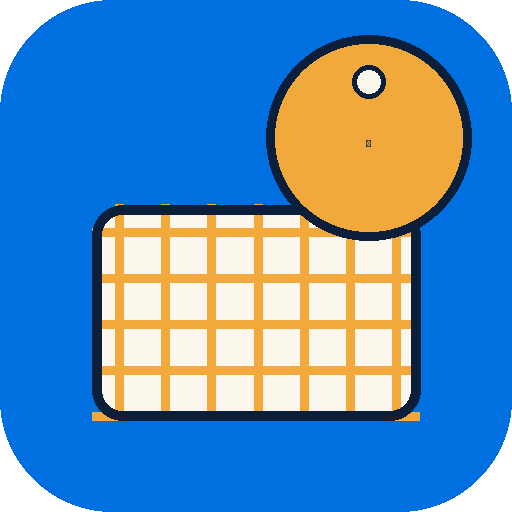
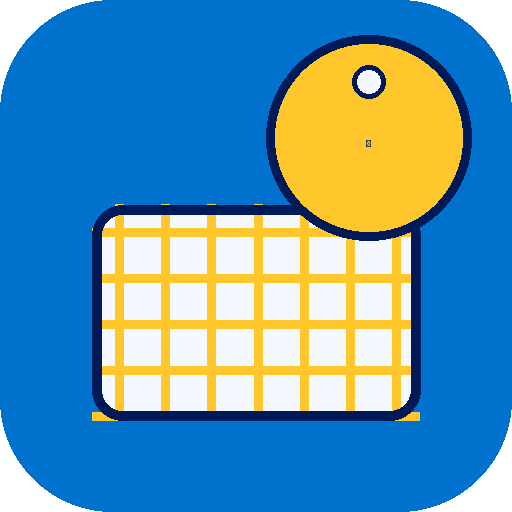
Add files via upload

Changed region(s): [[0.1562, 0.0625, 0.9375, 0.8438]]

diff --git a/style.css b/style.css
@@ -1,18 +1,19 @@
 :root{
-  --navy:#0B1F3A;
-  --navy-soft:#233350;
-  --blue:#0070E0;
-  --blue-deep:#0056B3;
-  --blue-pale:#E7F1FE;
-  --amber:#F2A93C;
-  --amber-deep:#D98A1F;
-  --cream:#FBF6EC;
-  --cream-dim:#F1EADA;
-  --clay:#E85D3D;
-  --green:#1FAA59;
-  --green-pale:#E5F6EC;
-  --line:#E7E0CF;
-  --shadow: 0 10px 24px rgba(11,31,58,0.10);
+  /* GCash-inspired palette: deep + bright brand blue, white/pale-blue surfaces, gold accent */
+  --navy:#001A57;
+  --navy-soft:#0E3B93;
+  --blue:#0072CE;
+  --blue-deep:#001E7A;
+  --blue-pale:#EAF3FF;
+  --amber:#FFC72C;
+  --amber-deep:#E29B00;
+  --cream:#F5F8FF;
+  --cream-dim:#E8F0FE;
+  --clay:#FF5A45;
+  --green:#00A651;
+  --green-pale:#E1F6EA;
+  --line:#DCE7F9;
+  --shadow: 0 10px 24px rgba(0,26,87,0.10);
   --radius-lg:22px;
   --radius-md:16px;
   --radius-sm:11px;
@@ -131,22 +132,60 @@ body{
 .pickforme.busy .pfm-arrow{ animation:spin 0.9s linear infinite; }
 @keyframes spin{ to{ transform:rotate(360deg); } }
 
-/* ---------- GAB AI banner ---------- */
-.gabai-banner{
-  margin-top:14px; display:flex; gap:10px; align-items:flex-start;
-  background:#fff; border:1.5px dashed var(--blue);
-  border-radius:var(--radius-md); padding:12px 14px;
-  animation:pop .35s ease;
-}
 @keyframes pop{ from{ opacity:0; transform:translateY(-6px); } to{ opacity:1; transform:translateY(0); } }
 .gabai-avatar{
   flex-shrink:0; width:30px; height:30px; border-radius:9px;
-  background:linear-gradient(135deg, var(--amber), var(--clay));
+  background:linear-gradient(135deg, var(--blue), var(--blue-deep));
   color:#fff; font-family:'Baloo 2',sans-serif; font-weight:800;
   display:flex; align-items:center; justify-content:center; font-size:14px;
 }
-.gabai-label{ margin:0; font-size:10px; font-weight:800; letter-spacing:0.06em; color:var(--blue); text-transform:uppercase; }
-.gabai-text{ margin:3px 0 0; font-size:13px; line-height:1.4; color:var(--navy-soft); }
+
+/* ---------- GAB AI floating guide ---------- */
+.gabai-float{
+  position:absolute; right:14px; bottom:94px; z-index:30;
+  display:flex; flex-direction:column; align-items:flex-end; gap:10px;
+}
+.gabai-float-avatar{
+  position:relative; width:54px; height:54px; border-radius:50%;
+  background:linear-gradient(135deg, var(--blue), var(--blue-deep));
+  border:none; box-shadow:0 10px 22px rgba(0,30,122,0.38);
+  display:flex; align-items:center; justify-content:center; cursor:pointer;
+}
+.gabai-letter{ font-family:'Baloo 2',sans-serif; font-weight:800; font-size:20px; color:#fff; }
+.gabai-pulse{
+  position:absolute; inset:-6px; border-radius:50%;
+  border:2px solid var(--blue); opacity:0.55;
+  animation:gabai-pulse 2.2s ease-out infinite;
+}
+@keyframes gabai-pulse{
+  0%{ transform:scale(0.85); opacity:0.55; }
+  70%{ transform:scale(1.28); opacity:0; }
+  100%{ opacity:0; }
+}
+.gabai-float-bubble{
+  position:relative; width:224px; background:#fff; border-radius:16px;
+  box-shadow:0 14px 30px rgba(0,26,87,0.22); border:1px solid var(--line);
+  padding:12px 14px 13px; animation:pop .22s ease;
+}
+.gabai-float-bubble::after{
+  content:""; position:absolute; right:20px; bottom:-8px;
+  width:16px; height:16px; background:#fff;
+  border-right:1px solid var(--line); border-bottom:1px solid var(--line);
+  transform:rotate(45deg); border-radius:0 0 4px 0;
+}
+.gabai-float-close{
+  position:absolute; top:8px; right:9px; border:none; background:none;
+  color:#9AA6BB; font-size:11px; cursor:pointer; padding:2px;
+}
+.gabai-float-label{ margin:0 18px 0 0; font-size:10px; font-weight:800; letter-spacing:.06em; color:var(--blue); text-transform:uppercase; }
+.gabai-float-text{ margin:5px 0 0; font-size:12.5px; line-height:1.42; color:var(--navy-soft); }
+.gabai-float-actions{ display:flex; gap:6px; margin-top:10px; flex-wrap:wrap; }
+.gabai-float-actions button{
+  border:none; border-radius:9px; padding:7px 10px; font-size:11px; font-weight:700; cursor:pointer; font-family:inherit;
+}
+.gabai-float-actions .gfa-primary{ background:var(--navy); color:#fff; }
+.gabai-float-actions .gfa-ghost{ background:var(--cream-dim); color:var(--navy-soft); }
+.gabai-float.hidden{ display:none; }
 
 /* ---------- section head / grid ---------- */
 .sectionhead{ display:flex; align-items:baseline; justify-content:space-between; margin:20px 2px 10px; }

diff --git a/app.js b/app.js
@@ -46,18 +46,77 @@
     views.forEach(v => v.classList.toggle("active", v.dataset.view === name));
     navitems.forEach(n => n.classList.toggle("active", n.dataset.target === name));
     bottomnav.style.display = (name === "checkout") ? "none" : "flex";
+    gabaiFloat.el.classList.toggle("hidden", name === "checkout");
+    gabaiFloat.setForView(name);
   }
 
   navitems.forEach(btn => {
     btn.addEventListener("click", () => showView(btn.dataset.target));
   });
 
+  /* ---------------- GAB AI FLOATING GUIDE ---------------- */
+
+  const gabaiFloat = (() => {
+    const el = document.getElementById("gabai-float");
+    const avatar = document.getElementById("gabai-float-avatar");
+    const bubbleEl = document.getElementById("gabai-float-bubble");
+    const textEl = document.getElementById("gabai-float-text");
+    const actionsEl = document.getElementById("gabai-float-actions");
+    const closeBtn = document.getElementById("gabai-float-close");
+
+    const VIEW_TIPS = {
+      bagsakan: { text: "Tap <strong>Pick for me</strong> and I'll curate Bagsakan for your shop! 🌸", actions: [] },
+      chat: { text: "I suggested a message above — tap <strong>Use this message</strong> to send it instantly.", actions: [] },
+      wallet: { text: "Need working capital for your next bulk order? GLoan can help fund it.", actions: [] },
+    };
+
+    let currentView = "bagsakan";
+    let shownOnce = { bagsakan: false };
+
+    function render(text, actions = []) {
+      textEl.innerHTML = text;
+      actionsEl.innerHTML = "";
+      actions.forEach(a => {
+        const btn = document.createElement("button");
+        btn.className = a.primary ? "gfa-primary" : "gfa-ghost";
+        btn.textContent = a.label;
+        btn.addEventListener("click", a.onClick);
+        actionsEl.appendChild(btn);
+      });
+    }
+
+    function open(text, actions) {
+      if (text) render(text, actions);
+      bubbleEl.hidden = false;
+    }
+    function close() { bubbleEl.hidden = true; }
+    function toggle() {
+      if (bubbleEl.hidden) {
+        const tip = VIEW_TIPS[currentView];
+        open(tip ? tip.text : "Hi! I'm GAB AI, your Bagsakan buddy. 👋");
+      } else {
+        close();
+      }
+    }
+    function setForView(name) {
+      currentView = name;
+      if (name === "bagsakan" && !shownOnce.bagsakan) {
+        shownOnce.bagsakan = true;
+        setTimeout(() => open(VIEW_TIPS.bagsakan.text), 700);
+      }
+    }
+
+    avatar.addEventListener("click", toggle);
+    closeBtn.addEventListener("click", close);
+
+    return { el, open, close, setForView };
+  })();
+
   /* ---------------- BAGSAKAN GRID ---------------- */
 
   const grid = document.getElementById("item-grid");
   const gridTitle = document.getElementById("grid-title");
   const gridHint = document.getElementById("grid-hint");
-  const gabaiBanner = document.getElementById("gabai-banner");
   const pickBtn = document.getElementById("btn-pick-for-me");
 
   function renderGrid(items, { sorted }) {
@@ -100,10 +159,18 @@
       const sorted = [...FLORAL_ITEMS].sort((a, b) => b.rating - a.rating || b.reviews - a.reviews);
       renderGrid(sorted, { sorted: true });
       gridTitle.textContent = "Picked for your Flower Shop";
-      gabaiBanner.hidden = false;
       pickBtn.classList.remove("busy");
       pickBtn.querySelector(".pfm-text strong").textContent = "Picked for your shop ✓";
       pickBtn.querySelector(".pfm-text small").textContent = "Tap to re-curate Bagsakan";
+
+      gabaiFloat.open(
+        "Found the best-priced floral wire! Want me to check seller ratings? ⭐",
+        [{
+          label: "Check seller ratings",
+          primary: true,
+          onClick: () => gabaiFloat.open("Nena's Craft Supplies leads with 4.8★ from 612 reviews — that's why it's ranked #1 and tagged Top Seller. 🏅")
+        }]
+      );
     }, 1100);
   });
 

diff --git a/index.html b/index.html
@@ -51,14 +51,6 @@
           <span class="pfm-arrow">→</span>
         </button>
 
-        <div class="gabai-banner" id="gabai-banner" hidden>
-          <div class="gabai-avatar">G</div>
-          <div class="gabai-bubble">
-            <p class="gabai-label">GAB AI</p>
-            <p class="gabai-text">Found materials that might help you create your products! Sorted by store reputation, top sellers first. 🌿</p>
-          </div>
-        </div>
-
         <div class="sectionhead">
           <h2 id="grid-title">Trending sa Bagsakan</h2>
           <span class="sectionhint" id="grid-hint">unsorted</span>
@@ -192,6 +184,20 @@
       </div>
     </section>
 
+  </div>
+
+  <!-- ============ GAB AI FLOATING GUIDE ============ -->
+  <div class="gabai-float" id="gabai-float">
+    <div class="gabai-float-bubble" id="gabai-float-bubble" hidden>
+      <button class="gabai-float-close" id="gabai-float-close" aria-label="Close">✕</button>
+      <p class="gabai-float-label">GAB AI</p>
+      <p class="gabai-float-text" id="gabai-float-text">Hi! I'm GAB AI, your Bagsakan buddy.</p>
+      <div class="gabai-float-actions" id="gabai-float-actions"></div>
+    </div>
+    <button class="gabai-float-avatar" id="gabai-float-avatar" aria-label="Open GAB AI assistant">
+      <span class="gabai-pulse"></span>
+      <span class="gabai-letter">G</span>
+    </button>
   </div>
 
   <!-- ============ BOTTOM NAV ============ -->
